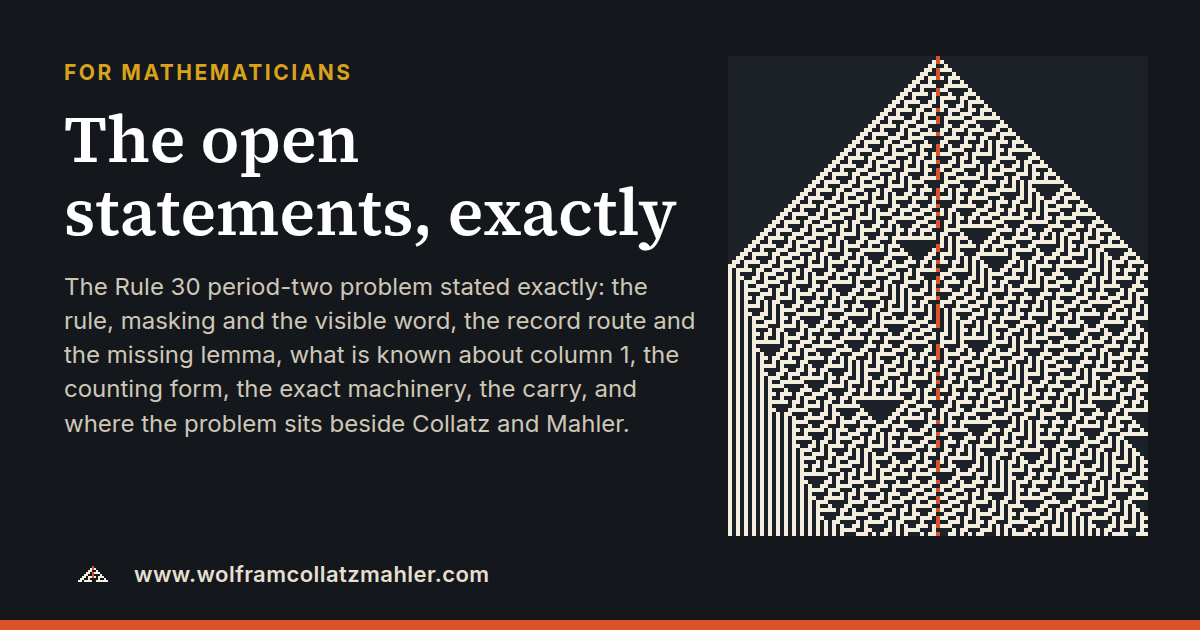
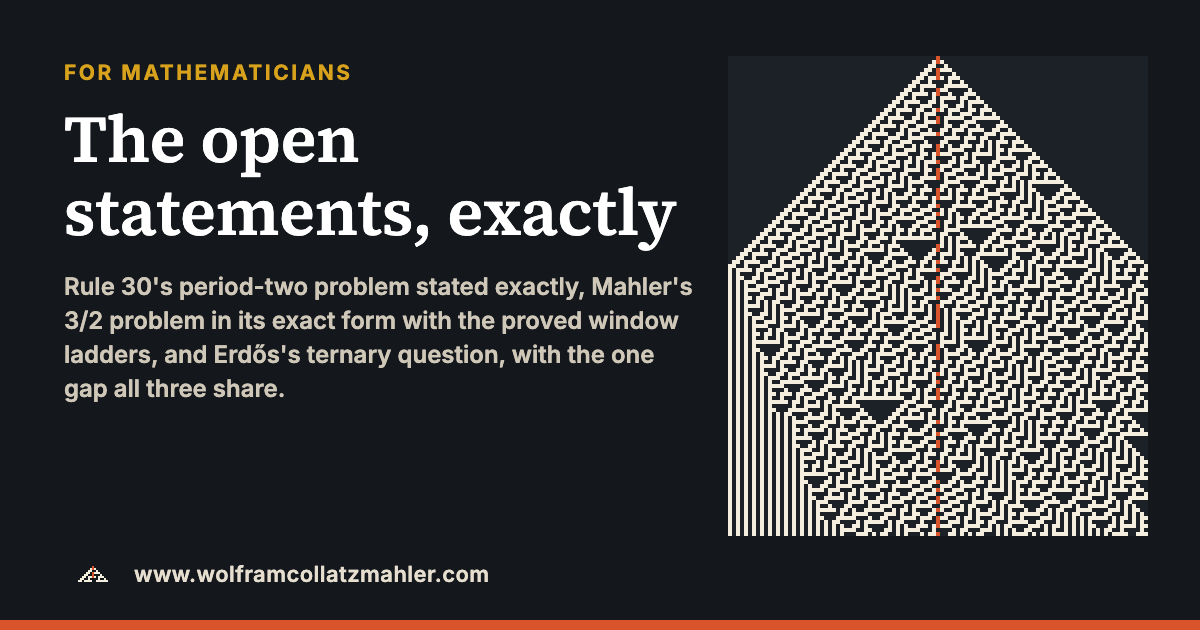
Site audit: 'The one missing method' front and centre on the home page (four problems, four exact statements); counters updated (314, 697, 1 missing method); record depths updated (exact at 125, 132, 139, 142, 143, 147); For mathematicians gains Mahler (G50, G293, G294, ladders, census, existence) a

diff --git a/site/wolframcollatzmahler/index.html b/site/wolframcollatzmahler/index.html
@@ -44,23 +44,57 @@
     repeating pattern, and the same missing idea stands behind all four prizes.</p>
     <p>Since the fourth of October 2026, one person and four AI collaborators have worked on it in public: every claim,
     every failure, every piece of data in one repository. We did not solve it. We learned a great deal about what a
-    solution has to look like, and we found the exact sentence that is missing. This site hands all of it to you.</p>
+    solution has to look like, and we found the exact sentence that is missing, then the same kind of sentence missing
+    from every problem in the family. This site hands all of it to you.</p>
   </div>
 </div></section>
 <main id="main" tabindex="-1">
+<h2 data-glyph="map" id="method">The one missing method</h2>
+<p>We spent two weeks on Rule 30, then a day on Mahler's 3/2 problem, then took a first look at a fourth problem of the
+same family. The clearest thing we can tell you is this. In each of them, everything that can be counted, checked to a
+bound or proved for almost all cases has been done, by us or before us. What is missing in each is one argument of the
+same kind: <b>that one specific starting point, one seed or one number, cannot keep matching a thin, fractal pattern
+of allowed behaviour for ever</b>, when the pattern it must match grows more demanding with the size of the number
+itself. No field of mathematics has a general method for this. We think it is the one idea that would open all four.</p>
+<table>
+<tr><th scope="col">Problem</th><th scope="col">What is known</th><th scope="col">The missing statement</th></tr>
+<tr><td><a href="wolfram.html">Rule 30</a>, period two</td><td>Period one settled (Condrey, 2026); no counterexample with its
+left edge within 248 cells; exact records to depth 120 and at six depths beyond.</td><td>The forced white run R(d) is
+finite at every depth d (<a href="#missing">below</a>).</td></tr>
+<tr><td><a href="collatz.html">Collatz</a></td><td>Checked for every start below 2<sup>71</sup> (Bařina, 2025); almost all
+orbits (Tao, 2019); our count follows the coin model to 0.5%.</td><td>Fewer than 2<sup>w − αT + c</sup> numbers of w bits stay
+above their start for T steps.</td></tr>
+<tr><td><a href="mahler.html">Mahler's 3/2</a></td><td>No Z-number below 2<sup>63</sup> (this project, extending 2<sup>57</sup>
+of 2009); some of its windows, such as [0, 9/19), are pure residue problems (proved).</td><td>No positive integer's ⌈3n/2⌉ parity sequence stays
+in the greedy base-3/2 language for ever.</td></tr>
+<tr><td>Erdős's ternary question</td><td>No exception up to n = 2·3<sup>45</sup> (Saye, 2022).</td><td>For n &gt; 8, 2<sup>n</sup>
+written in base 3 has a digit 2. It would be enough to show that, for every k, the first exponent other than 0, 2 and 8
+whose last k ternary digits avoid 2 exceeds k / log<sub>3</sub> 2.</td></tr>
+</table>
+<p>This is our reading, not a theorem: the four could fall to different ideas. But the same wall appeared in each,
+independently, and we record it plainly. Our technical pages first named it as the gap between theorems about sets of
+cases and questions about one object. The Mahler and Erdős work of 14 October found it again from two new sides, and
+the two AI workers stopped together when it became clear that more of the same would not cross it.</p>
+<p class="source"><b>Sources.</b> RULE30-PRIZE.md section 8.47 (the gap between sets and single objects);
+<a href="https://github.com/ghywel/placego/blob/main/MAHLER.md">MAHLER.md</a> sections 1 and 2;
+<a href="https://github.com/ghywel/placego/blob/main/CONSTELLATION.md">CONSTELLATION.md</a> section G (the neighbours and
+the Erdős side room); COLLATZ-PRIZE.md section 1; the halt in CHAT-LEDGER.md L723, GC1239 and L726.</p>
+
 <h2 data-glyph="map">Where we stand, in one breath</h2>
 <p>There is no proof, and nothing to submit. The constant case was settled before we began (Condrey, 2026). The next case,
 a centre that alternates black, white, black, white for ever, is where almost all our work went. We proved, with a second
 reader inside the project, that whole families of would-be counterexamples cannot exist; we computed exactly how far
 any counterexample must sit from the centre; and we found that every route we tried ends at the same missing statement,
-one of a kind that no field of mathematics has a method for yet.</p>
+one of a kind that no field of mathematics has a method for yet. Rule 30 now rests at a settled frontier. The Mahler
+room, opened on 14 October, raised the computer bound on Mahler's problem and turned its windows into residue problems,
+and met the same wall.</p>
 <div class="state">
   <div class="open"><b>0</b><span>proofs of any of the three prize problems</span></div>
-  <div class="proved"><b>306</b><span>statements proved, with a second reader</span></div>
-  <div class="measured"><b>638</b><span>pre-registered experiments, failures kept</span></div>
-  <div class="open"><b>1</b><span>missing statement, named exactly</span></div>
+  <div class="proved"><b>314</b><span>statements proved, with a second reader</span></div>
+  <div class="measured"><b>697</b><span>pre-registered experiments, failures kept</span></div>
+  <div class="open"><b>1</b><span>missing method, four exact statements</span></div>
 </div>
-<div class="level open" id="missing"><p class="kicker">The one missing statement, exactly</p>
+<div class="level open" id="missing"><p class="kicker">Rule 30's missing statement, exactly</p>
 <p>Let R(d) be the longest white run the forced left side can show at depth d, over all real traces beside the
 alternating centre. <b>Prove that R(d) is finite at every depth d.</b> Finite, not bounded: the data say it grows. A
 finite pattern with an alternating centre would be white beyond its support, an infinite run, so this one statement
@@ -68,8 +102,11 @@ refutes period two for every finite starting pattern. In plain words: keeping th
 the pattern real information, and a finite pattern has only finitely many bits to spend. It is proved when the trace
 is periodic (Theorem B) and for the pure rings the next column can run in; the general argument is open.
 <a href="stand.html#missing">What is known about it</a> · <a href="problems.html#lemma">The lemma in symbols</a>.</p></div>
-<p class="source"><b>Sources.</b> <a href="https://github.com/ghywel/placego/blob/main/STATE-OF-THE-PROOF.md">STATE-OF-THE-PROOF.md</a> and <a href="https://github.com/ghywel/placego/blob/main/PERIOD-TWO.md">PERIOD-TWO.md</a> section 5 in the repository; the counts are of the
-proofs and probes directories on 2026-10-11. Every page here names its sources the same way.</p>
+<p class="source"><b>Sources.</b> <a href="https://github.com/ghywel/placego/blob/main/STATE-OF-THE-PROOF.md">STATE-OF-THE-PROOF.md</a> and <a href="https://github.com/ghywel/placego/blob/main/PERIOD-TWO.md">PERIOD-TWO.md</a> section 5 in the repository; the counts, on 2026-10-14, are the 306
+proof pages in proofs/ plus eight results proved with a second reader on 14 October (MAHLER.md section 2: G293, G294, the
+upward and dual ladders, the bounded transient certificate, the existence-game soundness, the sharp witness graph and the
+distance identity), and the research probes in tests/probes/lexicon (688) and tests/probes/mahler (9). Every page here
+names its sources the same way.</p>
 
 <h2 data-glyph="pyramid">Three doors</h2>
 <div class="doors">
@@ -89,12 +126,14 @@ proofs and probes directories on 2026-10-11. Every page here names its sources t
 is a full page of this site: <a href="rule30/index.html">the Wolfram Rule 30 page</a>. It is written for a reader with no background
 and is the long version of everything the Learn page says in a few minutes.</p>
 
-<h2 data-glyph="wheel">The same problem, three times</h2>
+<h2 data-glyph="wheel">The same problem, four times</h2>
 <p>Rule 30's alternating-centre question has the same shape as two famous open problems in arithmetic: the Collatz
 conjecture, which carries a prize of its own, and Mahler's 3/2 problem from 1968. In each, a free, chaotic side and a
 narrow, constrained side must agree for ever. Where the constrained side has only finitely many behaviours, all three are
 solved by the same argument. Where it does not, all three are open, and for the same reason.
-<a href="trio.html">The three side by side.</a> Each has its own page: <a href="wolfram.html">Rule 30</a>,
+A fourth figure, Erdős's question whether 2<sup>n</sup> always has a 2 in base 3, has the same shape: the powers
+of 2 read in base 3 are the Collatz and Mahler arithmetic at its barest. <a href="trio.html">The three side by side.</a>
+Each has its own page: <a href="wolfram.html">Rule 30</a>,
 <a href="collatz.html">Collatz</a> and <a href="mahler.html">Mahler</a>.</p>
 
 <h2 data-glyph="trove">The trove</h2>
@@ -107,8 +146,8 @@ ideas are drawn live, with inputs you can change: <a href="cones.html">the force
 
 <h2 data-glyph="join">Why we are asking</h2>
 <p>We are few, and the problem is big. Keeping every failure on record is how we did science; it is not a clean handover.
-This site is the clean handover. If you can read a proof, check one of ours. If you can write one, the missing statement
-is stated for you. If you have a machine, the census can go deeper. If you know a paper we missed, tell us.
+This site is the clean handover. If you can read a proof, check one of ours. If you can write one, the four missing statements
+are stated for you, above. If you have a machine, the census can go deeper. If you know a paper we missed, tell us.
 <a href="join.html">How to join.</a></p>
 
 <h2 id="who" data-glyph="people">Who did this?</h2>

diff --git a/site/wolframcollatzmahler/problems.html b/site/wolframcollatzmahler/problems.html
@@ -3,11 +3,11 @@
 <head>
 <meta charset="utf-8"><meta name="viewport" content="width=device-width,initial-scale=1">
 <title>For mathematicians: the open statements, exactly</title>
-<meta name="description" content="The Rule 30 period-two problem stated exactly: the rule, masking and the visible word, the record route and the missing lemma, what is known about column 1, the counting form, the exact machinery, the carry, and where the problem sits beside Collatz and Mahler.">
+<meta name="description" content="Rule 30's period-two problem stated exactly, Mahler's 3/2 problem in its exact form with the proved window ladders, and Erdős's ternary question, with the one gap all three share.">
 <meta property="og:type" content="website">
 <meta property="og:site_name" content="Wolfram · Collatz · Mahler">
 <meta property="og:title" content="For mathematicians: the open statements, exactly">
-<meta property="og:description" content="The Rule 30 period-two problem stated exactly: the rule, masking and the visible word, the record route and the missing lemma, what is known about column 1, the counting form, the exact machinery, the carry, and where the problem sits beside Collatz and Mahler.">
+<meta property="og:description" content="Rule 30&#x27;s period-two problem stated exactly, Mahler&#x27;s 3/2 problem in its exact form with the proved window ladders, and Erdős&#x27;s ternary question, with the one gap all three share.">
 <meta property="og:url" content="https://www.wolframcollatzmahler.com/problems.html">
 <meta property="og:image" content="https://www.wolframcollatzmahler.com/share/problems.png">
 <meta property="og:image:width" content="1200">
@@ -33,7 +33,7 @@
 <main id="main" tabindex="-1">
 <p class="kicker">For mathematicians</p>
 <h1>The open statements, exactly</h1>
-<p class="lede">The period-two problem and the route we hold, in the words a proof would use, most important first. Each
+<p class="lede">The period-two problem and the route we hold, in the words a proof would use, most important first; then Mahler's problem and Erdős's question in the same terms (sections 9 and 10). Each
 statement says whether it is proved (a written proof with a second reader inside the project, no outside review),
 measured (an exact computation in the trove) or open, and names its section of the record. Nothing here is new; it is the
 record, compressed and typeset.</p>
@@ -159,7 +159,9 @@ h=1-\frac1{16}\sum_{g\ge1}\frac{F_g\log_2 F_g}{2^{g}}=0.69924320338768\ \text{bi
 
 <h2 data-glyph="circle">8. Where the problem sits</h2>
 <p>Three problems share one skeleton: a free side that is a full shift, a constrained side that is a thin language, and the
-requirement that they agree for ever.</p>
+requirement that they agree for ever. A fourth, Erdős's ternary question, has it too (section 10), and in all four the
+missing step is the same: one specific object must be excluded from a thin set (<a href="index.html#method">the one missing
+method</a>).</p>
 <ul>
 <li><b>Rule 30.</b> Free side: the left half at the wall. Constrained side: $L$. Emptiness proved when column 1 is eventually
 periodic or Sturmian; open for the kicked wheel.</li>
@@ -175,6 +177,53 @@ column of the automaton that multiplies by $\tfrac32$.</li>
 common gap: every sparsity theorem is about sets, and each prize is about one object. <a href="trio-technical.html">The
 three side by side, with the theorems.</a></p>
 <p class="source"><b>Sources.</b> RULE30-PRIZE.md sections 8.45 and 8.47; COLLATZ-PRIZE.md; PRIOR-ART.md.</p>
+
+<h2 data-glyph="circle" id="mahler">9. Mahler's 3/2 problem: the exact form and the October 2026 results</h2>
+<div class="level"><p class="kicker">The exact form (proved; G50)</p>
+<p>Write $\xi(\tfrac32)^j=n_j+u_j$ with $n_j\in\mathbb Z_{\ge0}$ and $u_j\in[0,\tfrac12)$, and $b_j=n_j \bmod 2$. Then
+$$n_{j+1}=\Big\lceil \tfrac{3n_j}{2}\Big\rceil=\tfrac{3n_j+b_j}{2},\qquad u_j=\sum_{k\ge0} b_{j+k}\,\frac{2^k}{3^{k+1}}.$$
+A Z-number is exactly a positive integer $n_0$ whose $\lceil 3x/2\rceil$ parity code keeps every tail $u_j<\tfrac12$; then
+$\xi=n_0+u_0$. On $[0,\tfrac12)$ the parity is forced by $u$, so the fractional side alone is free: the admissible codes
+are the greedy $\beta$-shift at $\beta=\tfrac32$.</p></div>
+<div class="level"><p class="kicker">Two norms, one series (proved; G293)</p>
+<p>The same series converges in $\mathbb Z_2$, to $-n_0$. Let $S\subset\mathbb Z_2$ be the starts with every tail strictly
+below $\tfrac12$. $S$ is not closed; its closure $K$ adds the starts reaching the critical code $d(1)$. Both have Hausdorff
+dimension $\log_2\tfrac32$, and
+$$\text{Mahler's conjecture}\iff S\cap\mathbb Z_{>0}=\varnothing .$$</p></div>
+<div class="level"><p class="kicker">The gap-$g$ ladder (proved; G294)</p>
+<p>For $g\ge3$ put $\alpha_g=\dfrac{3^{g-1}}{3^g-2^g}$ and $\beta_g=\dfrac{1+(2/3)^{g-1}}{3}$. For every $a\in[\alpha_g,\beta_g]$,
+$$\exists\,\xi>0:\ \{\xi(\tfrac32)^n\}\in[0,a)\ \text{ for all } n$$
+if and only if
+$$\exists\,n\ge1:\ \text{every odd iterate } T^j(n)\equiv-\tfrac13 \pmod{2^g},$$
+with $\xi=n+u_0(n)$. At $g=3$: windows $[\tfrac{9}{19},\tfrac{13}{27}]$ and odd iterates $\equiv5\pmod 8$. The mirror (proved):
+$\{\eta(\tfrac32)^n\}\in(1-a,1)$ for all $n$ iff some $n\ge1$ has every even iterate $\equiv-\tfrac23\pmod{2^g}$. An upward
+ladder (proved, GC1230) covers the windows $[0,a_M)$, $a_M\uparrow\tfrac12$, by finite residue conditions around the
+2-adic start $D$ of $d(1)$. Neither ladder reaches Mahler: a Z-number with $\sup_j u_j=\tfrac12$ lies on no rung.</p></div>
+<div class="level"><p class="kicker">Computed exclusions and one existence window</p>
+<ul>
+<li>No Z-number in $(0,2^{63})$ (exact census; Dubickas and Mossinghoff had $2^{57}$ in 2009). No $\eta\in(0,2^{63}-1]$ has
+every $\{\eta(\tfrac32)^n\}\in(\tfrac12,1)$.</li>
+<li>By the ladder: no $\xi<2^{70}$ keeps every fractional part below $\tfrac{35}{81}$; none below $2^{80}$ below
+$\tfrac{97}{243}$; none below $2^{90}$ below $\tfrac{275}{729}$; none below $2^{100}$ below $\tfrac{2315}{6561}$.</li>
+<li>Every interval $[k,k+1]$, $k\ge1$, contains $\xi$ with all $\{\xi(\tfrac32)^n\}\in[\tfrac{7}{57},\tfrac{50}{57}]$: a 15-state
+certificate checkable by hand, whose transition graph is sharp at exactly $\tfrac{7}{57}$ (GC1237). Whether every
+certificate needs such a graph is open.</li>
+</ul></div>
+<p class="source"><b>Sources.</b> <a href="https://github.com/ghywel/placego/blob/main/MAHLER.md">MAHLER.md</a> sections 1 and 2;
+<a href="https://github.com/ghywel/placego/blob/main/RULE30-GPT.md">RULE30-GPT.md</a> G50, GC1221 (G293), GC1228 (G294),
+GC1230, GC1233, GC1235 and GC1237; <a href="mahler-census.html">the census</a>.</p>
+
+<h2 data-glyph="coin" id="erdos">10. A fourth figure: Erdős's ternary question</h2>
+<div class="level"><p class="kicker">The statement and its free part</p>
+<p>Erdős (1979): for $n>8$ the base-3 expansion of $2^n$ contains the digit 2. Let $u_k=2\cdot3^{k-1}$, the order of 2 modulo
+$3^k$. Because 2 is a primitive root, exactly $2^{k-1}$ residues $n \bmod u_k$ give a last-$k$-digit block of $2^n$ free of
+2 (proved for every $k$; Saye 2022, Lemma 1), and each surviving residue has exactly two surviving lifts. If $m_k$ is the
+least $n\ge1$, $n\notin\{2,8\}$, whose last $k$ ternary digits avoid 2, then
+$$m_k>\frac{k}{\log_3 2}\ \text{ for every } k \quad\Longrightarrow\quad \text{Erdős's conjecture}.$$
+Computed: $m_k$ reaches 1134 at $k=16$ and 25458 at $k=22$, against a needed bound near $1.6k$. Chance predicts growth of
+order $(3/2)^k$. Verified for every $n\le2\cdot3^{45}$ (Saye 2022).</p></div>
+<p class="source"><b>Sources.</b> <a href="https://github.com/ghywel/placego/blob/main/CONSTELLATION.md">CONSTELLATION.md</a> section G.1;
+Saye, J. Integer Seq. 25 (2022); Lagarias, J. London Math. Soc. 79 (2009); RULE30-GPT.md GC1240 and GC1241.</p>
 </main>
 <canvas class="ribbon" aria-hidden="true"></canvas>
 <footer><div class="in">Built in the open from the public record at <a href="https://github.com/ghywel/placego">github.com/ghywel/placego</a>. Mathematics set with KaTeX (MIT licence, vendored in vendor/katex).</div></footer>

diff --git a/site/wolframcollatzmahler/need.html b/site/wolframcollatzmahler/need.html
@@ -43,8 +43,9 @@ depth.</p></div>
 column 1 (left permutivity: x(i−1, t) = x(i, t+1) XOR (x(i, t) OR x(i+1, t))). Call a column-1 sequence real if some
 configuration beside the wall produces it. For a depth d, let R(d) be the supremum over real sequences of the length of
 the white run of the left row at time 0 starting at depth d. Prove R(d) < ∞ for every d.</p></div>
-<p><b>What we have.</b> R(d) exactly to depth 120 and at 132, 139, 142, with the configurations achieving it; the values
-grow (17 at 132, at least 18 between 125 and 138, at least 38 at depth 1,035 by sampling; <a href="record.html">drawn depth by depth</a>). Theorem B proves finiteness
+<p><b>What we have.</b> R(d) exactly to depth 120 and at 125, 132, 139, 142, 143 and 147, with the configurations
+achieving it; the values grow (21 at 125; 17 at 132, 139, 142 and 143; 18 at 147; at least 23 at 133; at least 38 at
+depth 1,035 by sampling; <a href="record.html">drawn depth by depth</a>). Theorem B proves finiteness
 when column 1 is periodic over the relevant window, and GC1148 and GC1151 prove it for the two pure "rings" column 1
 can run in, with gaps 5 and 6. At depths 132 and 139 the exact mechanism that ends the record is known: the white
 extension would force a certified forbidden word of length 24 into column 1, or is read off the masked samples. <b>What
@@ -72,13 +73,14 @@ bits in place of the left part, is in <a href="https://github.com/ghywel/placego
 <p class="source"><b>Sources.</b> <a href="https://github.com/ghywel/placego/blob/main/RULE30-PRIZE.md">RULE30-PRIZE.md</a> section 8.51; <a href="https://github.com/ghywel/placego/blob/main/PERIOD-TWO.md">PERIOD-TWO.md</a> section 2, question 1; <a href="https://github.com/ghywel/placego/blob/main/COLLATZ-PRIZE.md">COLLATZ-PRIZE.md</a> section 1.</p>
 
 <h2 data-glyph="map">4. Read our proofs</h2>
-<p>306 statements have a written proof and a second reader inside the project. None has been reviewed outside it. The
+<p>314 statements have a written proof and a second reader inside the project: the 306 proof pages, and eight
+results of 14 October recorded in MAHLER.md section 2. None has been reviewed outside it. The
 ones that carry weight are Theorems A, B, E and the channel bound (<a href="https://github.com/ghywel/placego/blob/main/RULE30-PRIZE.md">RULE30-PRIZE.md</a> sections 8.54, 8.57, 8.20 and 8.33).
 If you find an error, we want to know; if you confirm one, say so and we will record it with your name or handle.</p>
 
 <h2 data-glyph="trove">5. Go deeper with a machine</h2>
-<p>The record census is exact to depth 120 and at three depths beyond, by SAT with machine-checked certificates. Deeper
-exact values, and the exact value at depth 125 to 138 where only lower bounds of 18 are known, would tell the lemma
+<p>The record census is exact to depth 120 and at six depths beyond, by SAT with machine-checked certificates. Deeper
+exact values, and the exact values between 126 and 141 where only lower bounds of 18 are known, would tell the lemma
 hunters what the mechanism looks like at scale. The certified forbidden-word lists stop at 44 (48 in one phase, in
 progress). The code is in the repository under <a href="https://github.com/ghywel/placego/tree/main/tests/probes">tests/probes</a>; the formats are in the trove.</p>
 

diff --git a/site/wolframcollatzmahler/stand.html b/site/wolframcollatzmahler/stand.html
@@ -83,8 +83,9 @@ cases.</li>
 17/56 of a turn per step. The kicks are what keep it from repeating. No other column of the real pattern carries any
 such wheel.</li>
 <li><b>The record of white runs.</b> How long can the forced left side stay white at a given depth? The exact answer is
-known at every depth to 120 and at depths 132, 139 and 142, with the configuration that achieves it. It is 17 cells at
-those three depths and at least 18 at the depths between. If this number is finite at every depth, period two is
+known at every depth to 120 and at depths 125, 132, 139, 142, 143 and 147, with the configuration that achieves it.
+It is 21 cells at 125, 17 at 132, 139, 142 and 143, and 18 at 147. It is at most 17 at 121 to 124, 140, 144 to 146 and
+148 to 150, and at least 18 at the other depths from 126 to 141 (at least 23 at 133). If this number is finite at every depth, period two is
 impossible for every finite pattern. <a href="record.html">See it depth by depth.</a></li>
 <li><b>The forbidden words.</b> Every word of length up to 44 that the next column can never produce is listed, 1,130 in
 one phase and 1,199 in the other, each with a machine-checked certificate of impossibility.</li>
@@ -109,6 +110,8 @@ board. Keeping them on record is what stops the next person from walking the sam
 (the entrance lane); L644 (comparators).</p>
 
 <h2 data-glyph="ring" id="missing">The one missing statement <span class="status">Open</span></h2>
+<p class="note">This is Rule 30's form of a missing step that Collatz, Mahler's 3/2 problem and Erdős's ternary question share:
+<a href="index.html#method">the one missing method</a>.</p>
 <div class="level"><p class="kicker">Plain words</p>
 <p>Keeping the centre alternating for ever must cost the pattern real information, one bit per step or thereabouts, and
 a finite pattern only has finitely many bits to spend. The delivery side of that sentence is a theorem (the channel

diff --git a/site/wolframcollatzmahler/trio.html b/site/wolframcollatzmahler/trio.html
@@ -52,6 +52,11 @@ called a Z-number, and nobody knows whether one exists. The free side is the int
 The constrained side is the fractional parts, which must keep to half the circle for ever. No prize, and open for 58
 years. An exact census rules out every number below 2<sup>63</sup>: <a href="mahler-census.html">no Z-number below 2<sup>63</sup></a>.</p></div>
 
+<p>A fourth figure has the same shape. Erdős asked in 1979 whether 2<sup>n</sup>, written in base 3, always contains a
+digit 2 once n &gt; 8. The powers of 2 read in base 3 are the Collatz and Mahler arithmetic at its barest. It has been
+checked for every n up to 2·3<sup>45</sup>, and, like the other three, it is open for one specific orbit (<a
+href="problems.html#erdos">the statement exactly</a>; <a href="index.html#method">the one missing method</a>).</p>
+
 <h2 data-glyph="strip">Side by side</h2>
 <figure><canvas role="img" id="s1" aria-label="Rule 30: the column beside an alternating centre, as a strip"></canvas>
 <figcaption>Rule 30: the column beside an alternating centre, 120 steps, black for 1. Between kicks it is a rotation.</figcaption></figure>

diff --git a/site/wolframcollatzmahler/record.html b/site/wolframcollatzmahler/record.html
@@ -47,8 +47,8 @@ the three sharp depths beyond 120 it is 17.</figcaption></figure>
 <h2 data-glyph="map">What is being asked</h2>
 <p>Suppose a finite pattern kept the centre alternating for ever. Its left side would be white beyond its support, an
 infinite run at some depth. So if the run is finite at every depth, no finite pattern can do it. The record is exact to
-depth 120 and at 132, 139 and 142, where it is 17 and the mechanism that stops it is understood; between and beyond,
-only lower bounds. <a href="problems.html">The statement in full.</a></p>
+depth 120 and at 132, 139 and 142, where it is 17 and the mechanism that stops it is understood, and also at 125 (21),
+143 (17) and 147 (18); between and beyond, only bounds (the drawing below shows the witnesses as exported on 11 October). <a href="problems.html">The statement in full.</a></p>
 <p class="source"><b>Sources.</b> The trove's records.json (built from L643's record traces); <a href="https://github.com/ghywel/placego/blob/main/CHAT-LEDGER.md">CHAT-LEDGER.md</a> CL355, GC1155 to GC1157.</p>
 </main>
 <canvas class="ribbon" aria-hidden="true"></canvas>

diff --git a/site/wolframcollatzmahler/wolfram.html b/site/wolframcollatzmahler/wolfram.html
@@ -59,7 +59,7 @@ column can never produce.</p></div>
 <div class="level"><p class="kicker">The one missing statement</p>
 <p>Let R(d) be the longest white run that the forced left side can show at depth d, over all real traces beside the
 alternating centre. If R(d) is finite at every depth, period two is impossible for every finite starting pattern. The
-exact values are known at every depth to 120. Proving finiteness at every depth is the open part. It needs a
+exact values are known at every depth to 120 and at six depths beyond. Proving finiteness at every depth is the open part. It needs a
 reason why keeping a repeating centre for ever costs more information than a finite pattern has, and no field of
 mathematics has a method for that yet.</p></div>
 <p class="source"><b>Sources.</b> Wolfram's announcement at <a href="https://www.rule30prize.org">rule30prize.org</a>;

diff --git a/site/wolframcollatzmahler/README.md b/site/wolframcollatzmahler/README.md
@@ -19,6 +19,7 @@ domain on 2026-10-11: www.wolframcollatzmahler.com, served from the root of that
 | `join.html` | Where to start reading, the standards, how to send something. |
 | `problems.html`, `trio-technical.html` | For mathematicians (on the toolbar): the open statements exactly, typeset with KaTeX; the three problems with their theorems. |
 | `vendor/katex/` | KaTeX 0.16.11 (MIT, licence included): stylesheet, script, auto-render, woff2 fonts; vendored so that the site makes no external loads beyond Google Fonts. |
+| `index.html` (2026-10-14) | Front and centre: "The one missing method" (the four problems' shared missing step, with a table of what is known and each exact missing statement), and the counters updated (314 proved with a second reader: 306 proof pages plus eight results of 14 October; 697 research probes in lexicon/ and mahler/; 1 missing method, four statements). Rule 30's missing statement is kept as its instance. `problems.html` gained sections 9 (Mahler's exact form, G293, G294, the ladders, the census and existence results) and 10 (Erdős's ternary question). Record depths updated on `stand.html`, `need.html`, `record.html` and `wolfram.html` (exact at 125, 132, 139, 142, 143 and 147). |
 | `wolfram.html`, `collatz.html`, `mahler.html` | One page per problem (the owner, 2026-10-14: "separate pages like this for wolfram / collatz / mahler in the top toolbar"), each in three levels with a live exact picture and check: Rule 30's three questions and where Question 1 stands (with a centre-column counter); Collatz, the conjecture, what is known, our counting form, an exact orbit plot (BigInt); Mahler, the exact form, what is in print, our census and ladder, the exact best-candidate plot and the 5 mod 8 game. The toolbar now reads Learn, Wolfram, Collatz, Mahler, Where we stand, How they connect (was "Rule 30, Collatz, Mahler"), What we need, For mathematicians, The trove, Join; "Rule 30, worked" is reached from the Wolfram page, and `rule30/index.html` marks Wolfram as current. |
 | `mahler-census.html` | The Mahler census (2026-10-14): no Z-number below 2^63, the negative half to -2^63, a live exact horizon checker (BigInt), the records chart, and the cost of going further; linked from `stand.html` and `trio.html`. Sources: MAHLER.md sections 1 and 2, `tests/probes/mahler/`. Its share image was rendered without the real faces (`--fonts` absent); re-render with `build_share.py --fonts DIR` for the house typeface. |
 | `cones.html`, `wheelcentre.html`, `record.html`, `ring.html` | Live pictures with inputs, linked from the pages they illustrate (`record.html` embeds `data/records.json`, written by `data/build_data.py`). |

diff --git a/CONSTELLATION.md b/CONSTELLATION.md
@@ -1010,12 +1010,15 @@ the room earns it.*
 
 **G.1, first block done (Local, 13:22 BST; exploratory, nothing preregistered).**
 - *The tree.* Saye's Lemma 1, read by GPT in GC1240, gives 2^(u_k) = 1 + s 3^k with s not divisible by 3. So the
-  (k+1)th digit of 2^(r + j u_k) is d_k(2^r) + j s (2^r mod 3) mod 3, and each surviving residue r in R_k has exactly two
+  (k+1)th digit of 2^(r + j u_k) is d_(k+1)(2^r) + j s (2^r mod 3) mod 3 (corrected per GC1241; the first wording had
+  d_k, one digit too low; the count of surviving lifts is unaffected), and each surviving residue r in R_k has exactly two
   surviving lifts among r, r + u_k, r + 2 u_k. The free part is a binary tree (known, the mechanism of Saye's search).
 - *The single-orbit obligation, restated.* Let R_k be the exponent residues mod u_k = 2 x 3^(k-1) whose last k ternary
   digits avoid 2, and let L(n) be the number of ternary digits of 2^n. An exception n > 8 exists iff some n with
-  L(n) = k lies in R_k. With m_k = min(R_k minus {0, 2, 8}) increasing in k, a linear bound m_k > 1.6 k for every k
-  would prove the conjecture.
+  L(n) = k lies in R_k. With m_k the least actual exponent n >= 1, n not 2 or 8, whose last k ternary digits avoid 2 (the producing
+  domain of the table below, per GC1241; it equals the canonical residue minimum from k = 3 on), a bound m_k > k / log_3 2
+  for every k >= 7 would prove the conjecture (GPT's exact rounding, GC1241: an exponent with k digits has
+  n < k log_2 3 < 1.6 k).
 - *The margin* (computed, small): m_k = 4, 6, 6, 18, 20, 20, 20, 24, 24, 24, 72, 186, 186, 332, 332, 1134 (k = 16 to 21),
   then 25458 (k = 22 to 25). So m_k / k grows from 2 towards 1000. Chance predicts m_k of order (3/2)^k, while a proof
   needs only linear growth: the gap is far wider than Mahler's.
